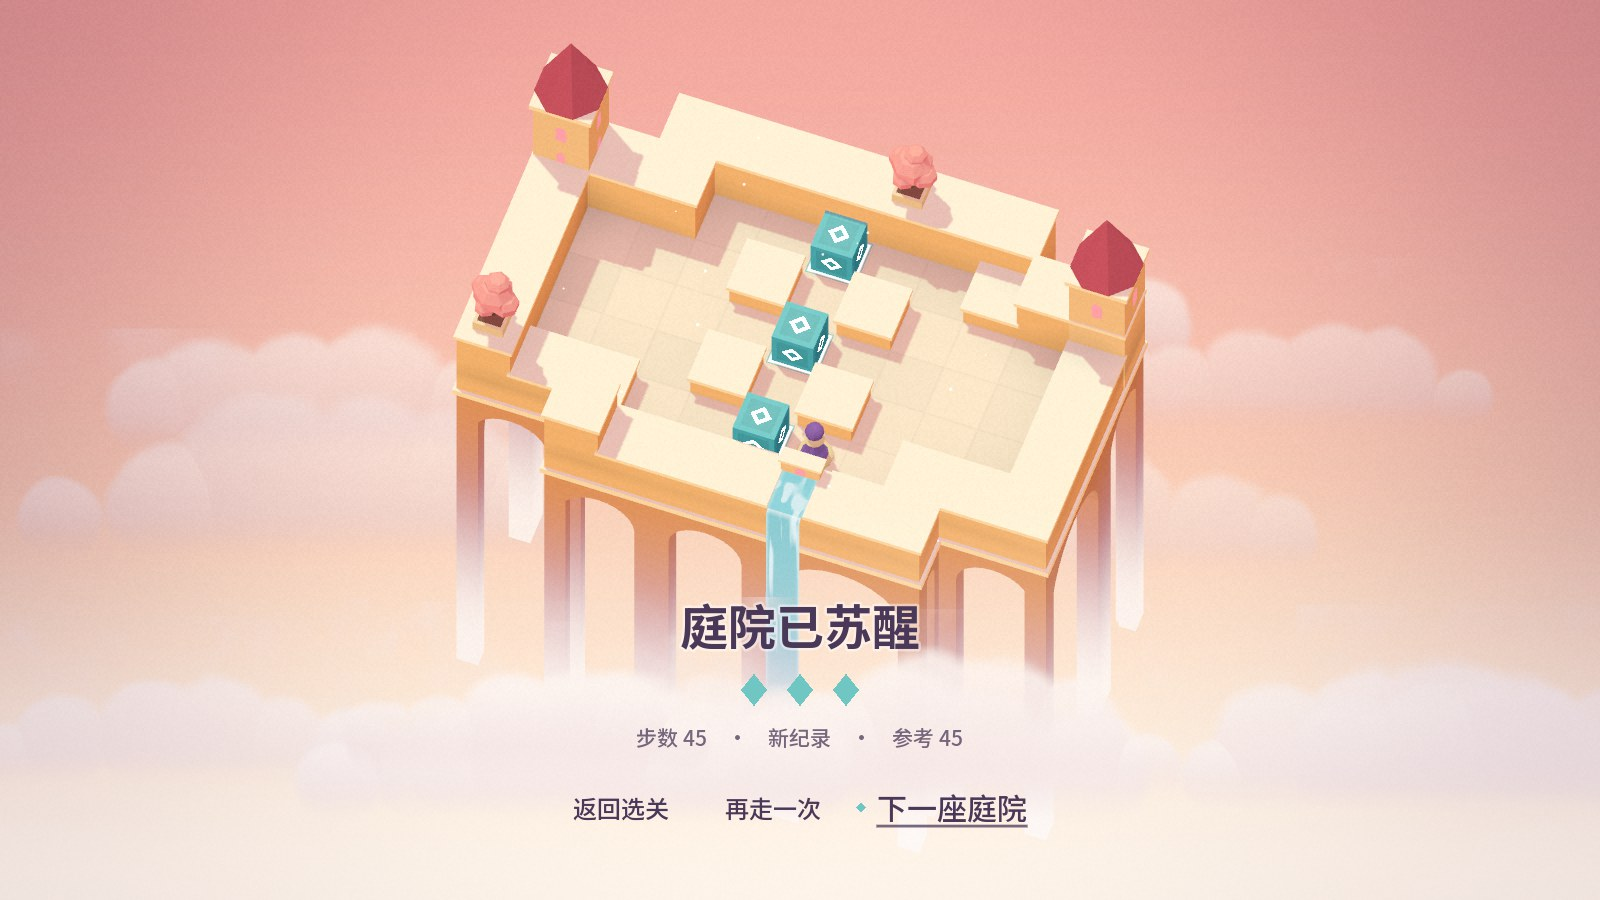
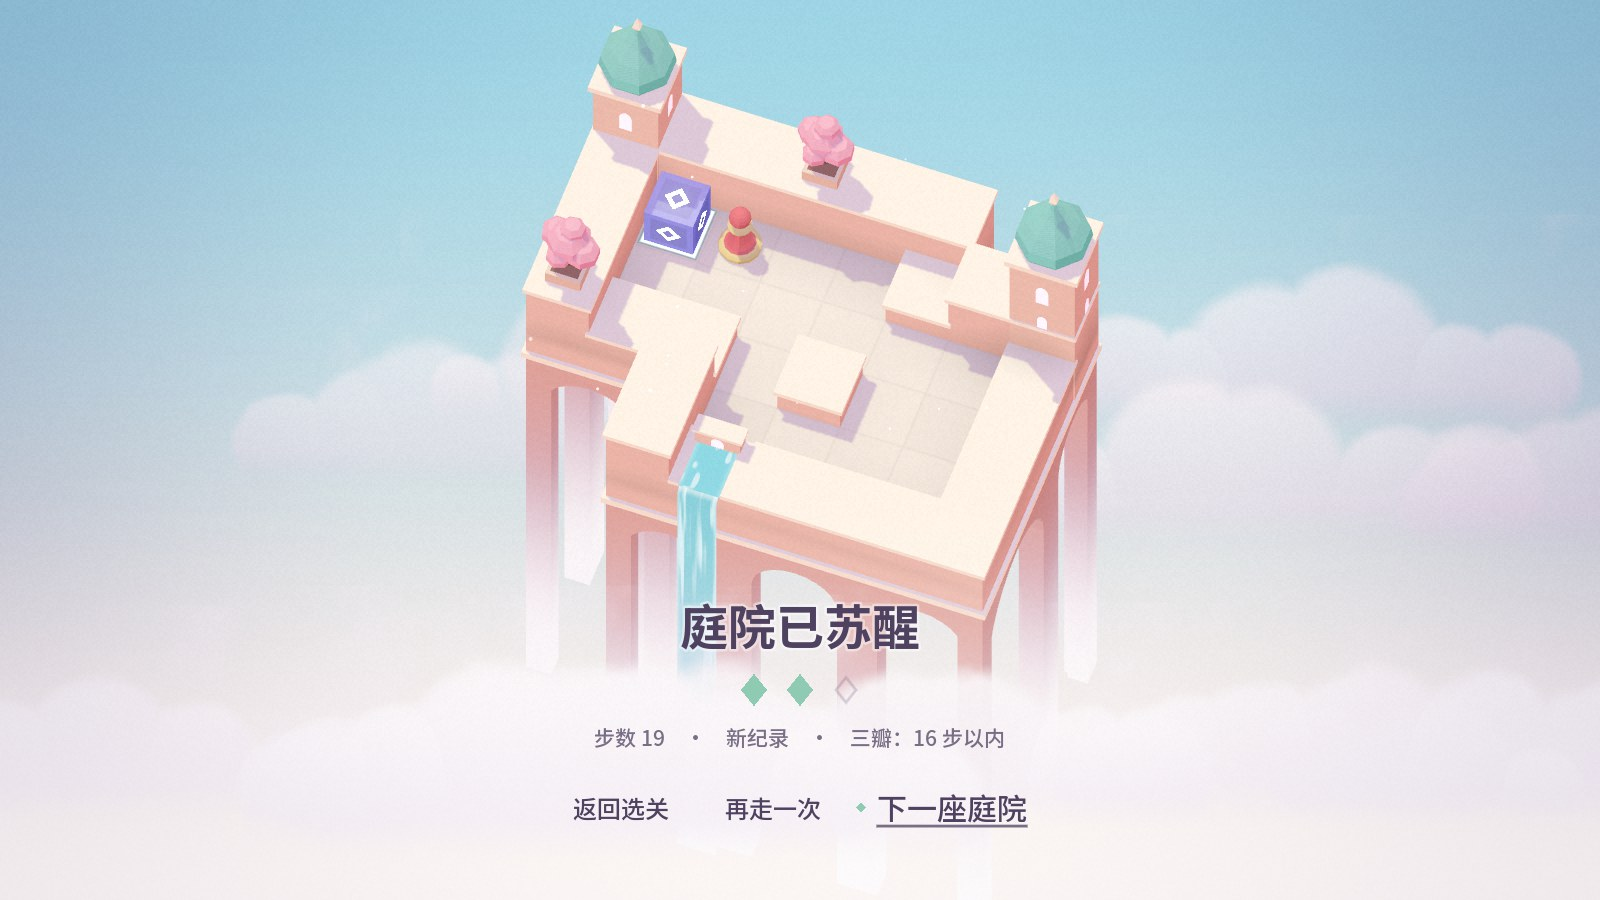
feat: redesigned level set and range-based petal grading
Levels (designed in the level studio):
- I 初见 (new): push basics; go around to push from the other side
- II 花径 (was 初见): move one box aside to make way
- III 易位 (new): a box already on a target must give way (verified: treating
  it as a wall makes the level unsolvable, so the idea cannot be skipped)
- IV 掌灯, V 北辰 kept; 水镜 and 紫藤 removed (symmetric repetition)

Grading: petals no longer require the global optimum. Three petals up to
par + max(3, 25%), two up to par + max(8, 60%), one for finishing; optional
per-level "grades" override (editable in the studio). The completion panel
no longer shows the optimal move count and instead shows the three-petal
range when it was missed. LevelData.grade_limits / petals_for are unit-tested.

Dev runs (--shot, --smoke) no longer read or write the player's save, and
command-line args are parsed before settings are applied.

README level table, rating description and screenshots updated.

diff --git a/tools/level_studio.html b/tools/level_studio.html
@@ -129,6 +129,7 @@ kbd { font:11px Menlo, monospace; background:#eee; border:1px solid #ddd; border
         <label>英文名</label><input id="fNameEn">
         <label>主题</label><select id="fTheme"></select>
         <label>种子</label><div style="display:flex;gap:6px"><input id="fSeed" type="number"><button id="btnSeed" title="换一种程序化装饰（树、水、楼梯）">随机</button></div>
+        <label>评分分档</label><div style="display:flex;gap:6px;align-items:center"><input id="fG3" type="number" title="三瓣：不超过这个步数"><input id="fG2" type="number" title="两瓣：不超过这个步数"><span class="legend" style="white-space:nowrap">留空用默认</span></div>
         <label>设计意图</label><textarea id="fNote" placeholder="这一关想让玩家学会/体会什么？（存为关卡 JSON 的 note 字段，游戏不读取）"></textarea>
       </div>
     </div>
@@ -536,6 +537,7 @@ function renderCurve() {
     ["地板", lv => lay(lv)?.floor],
     ["步数", lv => sol(lv)?.par_moves],
     ["推动", lv => sol(lv)?.par_pushes],
+    ["三瓣线", lv => gradesOf(lv)?.three],
     ["搜索状态", lv => sol(lv)?.expanded, v => Math.log10(v + 1)],
     ["隐蔽陷阱", lv => trapsOf(lv)?.hidden],
     ["明显陷阱", lv => trapsOf(lv)?.simple],
@@ -554,6 +556,17 @@ function renderCurve() {
   });
   $("#curveTable").innerHTML = html;
 }
+// 结算花瓣分档，与 LevelData.grade_limits 一致：三瓣 par + max(3, 25%)，两瓣 par + max(8, 60%)，可手动指定
+function gradesOf(lv) {
+  const s = sol(lv);
+  if (!s) return null;
+  const par = s.par_moves, g = lv.data.grades;
+  if (Array.isArray(g) && g.length === 2) {
+    const three = Math.max(g[0], par);
+    return { three, two: Math.max(g[1], three), custom: true, raw: g };
+  }
+  return { three: par + Math.max(3, Math.round(par * 0.25)), two: par + Math.max(8, Math.round(par * 0.6)), custom: false };
+}
 const lay = lv => (lv.analysis && lv.akey === akeyOf(lv)) ? lv.analysis.layout : undefined;
 const sol = lv => (lv.analysis && lv.akey === akeyOf(lv)) ? lv.analysis.solution : undefined;
 
@@ -571,12 +584,20 @@ function renderPanel() {
       msgs += `<div class="e">! 搜索状态 ${n}，接近游戏内求解器上限（${GD_MAX_STATES}），提示功能可能失效、单元测试可能失败</div>`;
     else if (n > 50000)
       msgs += `<div class="w">! 搜索状态 ${n}，游戏内求解约需 ${(n * GD_MS_PER_STATE / 1000).toFixed(1)} 秒（单元测试与提示功能会变慢）</div>`;
+    const gr = gradesOf(lv);
+    if (gr && gr.custom && (gr.raw[0] < a.solution.par_moves || gr.raw[1] < gr.raw[0]))
+      msgs += `<div class="w">! 手动分档低于最优步数或顺序颠倒，游戏内会校正为 三瓣 ≤ ${gr.three}、两瓣 ≤ ${gr.two}</div>`;
     if (a.solution && !a.errors.length) msgs += `<div class="o">✓ 可解${isDirty(lv) ? "（保存时会写入新的参考步数与最优解）" : ""}</div>`;
   }
   $("#msgs").innerHTML = msgs;
   let stats = "";
   if (a && a.layout) stats += `<span>尺寸</span>${a.layout.width}×${a.layout.height}<span>地板</span>${a.layout.floor}<span>箱子</span>${a.layout.boxes}<span>死格</span>${a.layout.dead.length}`;
   if (a && a.solution) stats += `<span>最优步数</span>${a.solution.par_moves}<span>最优推动</span>${a.solution.par_pushes}<span>搜索状态</span>${a.solution.expanded}<span>求解</span>${a.solution.seconds}s`;
+  const gr = gradesOf(lv);
+  if (gr) stats += `<span>三瓣</span>≤ ${gr.three}<span>两瓣</span>≤ ${gr.two}${gr.custom ? "<span>分档</span>手动" : "<span>分档</span>默认"}`;
+  const def = gr && !gr.custom ? gr : null;
+  $("#fG3").placeholder = def ? `三瓣 ${def.three}` : "三瓣";
+  $("#fG2").placeholder = def ? `两瓣 ${def.two}` : "两瓣";
   $("#stats").innerHTML = stats;
 
   const tr = trapsOf(lv);
@@ -649,6 +670,8 @@ function renderForm() {
   const d = L().data;
   $("#fName").value = d.name || ""; $("#fNameEn").value = d.name_en || "";
   $("#fTheme").value = d.theme; $("#fSeed").value = d.seed ?? 0; $("#fNote").value = d.note || "";
+  const g = Array.isArray(d.grades) ? d.grades : ["", ""];
+  $("#fG3").value = g[0]; $("#fG2").value = g[1];
   syncText(true);
 }
 
@@ -743,6 +766,18 @@ bindField("#fName", (d, v) => d.name = v);
 bindField("#fNameEn", (d, v) => d.name_en = v);
 bindField("#fSeed", (d, v) => d.seed = parseInt(v, 10) || 0);
 bindField("#fNote", (d, v) => { if (v.trim()) d.note = v; else delete d.note; });
+// 分档：两格都空 = 用默认；只填一格时另一格取当前默认值
+function onGradesInput() {
+  const d = L().data, a = parseInt($("#fG3").value, 10), b = parseInt($("#fG2").value, 10);
+  if (isNaN(a) && isNaN(b)) delete d.grades;
+  else {
+    const par = sol(L())?.par_moves || 0;
+    d.grades = [isNaN(a) ? par + Math.max(3, Math.round(par * 0.25)) : a, isNaN(b) ? par + Math.max(8, Math.round(par * 0.6)) : b];
+  }
+  onMetaChanged();
+}
+$("#fG3").addEventListener("input", onGradesInput);
+$("#fG2").addEventListener("input", onGradesInput);
 $("#fTheme").addEventListener("change", e => { L().data.theme = e.target.value; onMetaChanged(); });
 $("#btnSeed").onclick = () => { L().data.seed = 1000 + Math.floor(Math.random() * 9000); $("#fSeed").value = L().data.seed; onMetaChanged(); };
 function onMetaChanged() { schedule(400); renderAll(); }

diff --git a/tools/solver.py b/tools/solver.py
@@ -78,7 +78,7 @@ DESIGN_MAX_FLOOR = 45
 # Canonical key order for level files; unknown keys are kept after these.
 KEY_ORDER: tuple[str, ...] = (
     "format", "id", "name", "name_en", "theme", "seed",
-    "par_moves", "par_pushes", "solution", "map",
+    "par_moves", "par_pushes", "solution", "grades", "map",
 )
 
 

diff --git a/README.md b/README.md
@@ -50,8 +50,8 @@
   - 箱子入位时，印记点亮并升起一束光柱
   - 推箱时小兵前倾，用头顶住石箱向前推
   - 全部入位后进入"庭院苏醒"演出：印记依次闪亮、窗户点亮、樱花盛放、台阶从云海升起、小兵转圈欢呼、镜头拉远
-  - 结算面板显示步数、最佳记录和参考最优步数，并按步数给出三枚花瓣的评价
-  - 游戏内 HUD 只显示关卡名和步数，参考步数只在结算时出现
+  - 结算面板显示步数与最佳记录，并按步数分档点亮三枚花瓣。分档不以全局最优为门槛（人很难找到最优解）：三瓣只需不超过最优步数 + max(3, 25%)，两瓣不超过最优步数 + max(8, 60%)，通关即得一瓣；未得三瓣时给出三瓣的步数范围作为目标
+  - 游戏内 HUD 只显示关卡名和步数；全局最优步数不在游戏中出现
 - **提示**：从当前局面在后台线程求解，用路径虚线、发光石箱和浮动箭头标出下一次推箱。如果当前局面已陷入死局，会直接告知，引导玩家撤销。
 - **俯视视角**：关卡内按 Tab（或 V）在倾斜视角与正上方俯视之间平滑切换，方便看清整个局面。
 - **关卡编辑器**，详见下文。
@@ -60,15 +60,17 @@
 
 ## 关卡
 
-五关全部原创，均由求解器验证可解，并写入最优步数（参考步数）。
+五关全部原创，均由求解器验证可解，并写入最优步数（用于结算分档与测试）。只有五关，装不下平滑的教学曲线，所以曲线做了压缩：每关只引入一个新思路，并由下一关组合、加深。主题按一天的时间推移排列。
 
-| | 关卡 | 主题 | 石箱 | 最优步数 | 设计要点 |
+| | 关卡 | 主题 | 石箱 | 最优步数 | 新思路 |
 |---|---|---|---|---|---|
-| I | 初见 First Light | 晨曦 | 2 | 15 | 推箱的基本规则，加一个小小的"先让路" |
-| II | 水镜 Mirror Pool | 碧水 | 2 | 26 | 印记就在墙角旁，顺手直推会把箱子卡进角落 |
-| III | 掌灯 Lamplighter | 暮霞 | 3 | 45 | 中心的灯得先挪开；两端先点亮，中心最后 |
-| IV | 紫藤 Wisteria Gallery | 紫境 | 4 | 60 | 只能经两道窄门进入画廊，先填两端，再填中间 |
-| V | 北辰 Pole Star | 星夜 | 5 | 71 | 风车状的四颗外星，加上一颗堵住所有门洞的"北辰" |
+| I | 初见 First Light | 晨曦 | 1 | 13 | 推箱的基本规则；直推推不进去时，要绕到另一侧再推 |
+| II | 花径 Garden Path | 碧水 | 2 | 15 | 两只石箱互相挡路：先把一只推开，给另一只和自己让出通道 |
+| III | 易位 Changing Places | 暮霞 | 3 | 30 | 已在印记上的石箱并不是"完成了"：它必须先让位，另一只才能进来，推动次序决定成败 |
+| IV | 掌灯 Lamplighter | 紫境 | 3 | 45 | 反复让路与复位的挑战：中心的石箱要先离开自己的印记，两侧的石箱推开后再推回 |
+| V | 北辰 Pole Star | 星夜 | 5 | 71 | 多只石箱互相牵制：退出通道时不能把自己堵死 |
+
+关卡用开发工具 `tools/level_studio.py` 设计：并排比较每关的最优步数、搜索规模和"陷阱推法"数量（会让关卡变得无解的推动），并在浏览器中试玩。例如第三关，把开局就在印记上的石箱当作墙后关卡无解，说明玩家必须让它离开，这一关的新思路无法被绕开。
 
 ## 关卡编辑器
 
@@ -130,7 +132,8 @@ scripts/
 - 地图兼容 XSB 字符：`#` 墙，`-` 地板，空格为虚空，`.` 印记，`$` 石箱，`*` 箱在印记上，`@` 旅人，`+` 旅人在印记上。
 - 导入经典 XSB 时，空格是地板还是墙外的虚空，通过从旅人位置泛洪判定。
 - `seed` 决定程序化建筑的随机部分，同一关每次生成都一致。
-- `par_moves`、`par_pushes`、`solution` 由求解器写入，供结算评价和测试使用。
+- `par_moves`、`par_pushes`、`solution` 由求解器写入，供结算分档、提示和测试使用。
+- 可选字段：`grades` 手动指定结算分档 `[三瓣上限, 两瓣上限]`（不填则按 par 自动计算）；`note` 是设计意图备注，游戏不读取。
 
 ### 程序化建筑（MonumentBuilder）
 

diff --git a/docs/PLAN.md b/docs/PLAN.md
@@ -515,3 +515,12 @@ cloud-courtyard/
 | 字体 | 思源宋体 + Cormorant Garamond（有笔锋的衬线体） | 思源黑体（Noto Sans SC）静态字重 400/500/600/700：形状规整、笔画均匀、有一定厚度 |
 | 界面信息 | 英文副标题、选关页的步数/主题/石箱数/参考步数、HUD 的推动次数与参考步数 | 全部去掉；HUD 只显示关卡名与步数，参考步数只在结算时显示；"庭院工坊"统一改称"关卡编辑器" |
 | 入位光效 | 圆柱光柱 | 沿印记方形外缘升起的方形光幕，与石箱轮廓一致 |
+
+### 第四轮调整（关卡重新设计）
+
+| 项 | 调整前 | 调整后 |
+|---|---|---|
+| 关卡 | 初见、水镜、掌灯、紫藤、北辰 | 初见（新）、花径（原初见）、易位（新）、掌灯、北辰。水镜与紫藤都是对称关卡，同一件事做两遍，删去；新增的第一关教"绕到另一侧推"，第三关教"已到位的石箱要让位"，为掌灯铺垫 |
+| 设计工具 | 只有游戏内编辑器 | 新增网页关卡工作台 `tools/level_studio.py`：总览全部关卡与难度曲线、陷阱分析、浏览器试玩与最优解回放 |
+| 结算评分 | 三瓣要求打出全局最优，结算显示参考最优步数 | 按范围分档：三瓣 ≤ par + max(3, 25%)，两瓣 ≤ par + max(8, 60%)，可在关卡中手动指定；游戏中不再出现全局最优步数 |
+| 截图模式 | 读写玩家存档 | 截图与自动化测试不读写玩家存档 |
